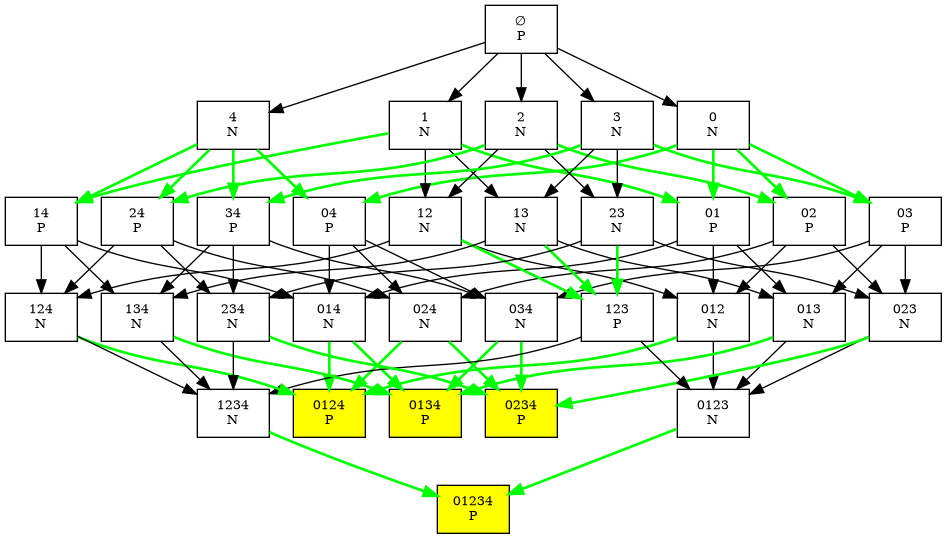
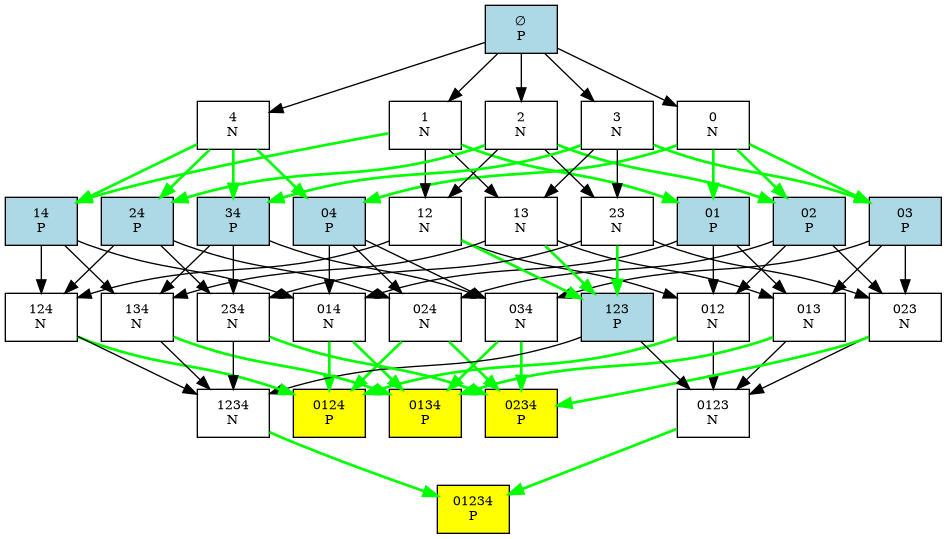
new file:   IMG_5940.jpeg 	modified:   __pycache__/sparse.n.p-position.cpython-312.pyc 	modified:   game_tree/decision_tree_01.dot 	modified:   game_tree/decision_tree_01.png 	modified:   game_tree/decision_tree_012.dot 	modified:   game_tree/decision_tree_012.png 	modified:   game_tree/decision_tre

diff --git a/sparse.n.p-position.py b/sparse.n.p-position.py
@@ -159,11 +159,19 @@ def export_dot(labels: dict[tuple[int, ...], str], universe: list[int], out_path
         for s in nodes:
             nid = id_map[s]
             lbl = label_text(s).replace('"', "'").replace("\n", "\\n")
-            # highlight terminal-like nodes (sparse-ruler or no legal moves)
+            # Decide visual style:
+            # - terminal-like nodes (sparse-ruler or no legal moves) -> yellow
+            # - other P-positions (normal P-positions) -> blue
             attrs = []
-            if is_sparse_ruler(s, U) or not legal_moves(U, s):
+            terminal_like = is_sparse_ruler(s, U) or not legal_moves(U, s)
+            if terminal_like:
                 attrs.append("style=filled")
                 attrs.append("fillcolor=yellow")
+            else:
+                # non-terminal P-positions -> blue fill
+                if labels.get(s) == "P":
+                    attrs.append("style=filled")
+                    attrs.append("fillcolor=lightblue")
             attrs_str = (", " + ", ".join(attrs)) if attrs else ""
             f.write(f"  {nid} [label=\"{lbl}\"{attrs_str}];\n")
         f.write("\n")

diff --git a/scripts/generate_dots.py b/scripts/generate_dots.py
@@ -11,10 +11,11 @@ mod = importlib.util.module_from_spec(spec)
 loader.exec_module(mod)
 
 # universes to generate (as strings matching your earlier format)
-universes = ["01", "012", "0123", "01234", "012345"]
+universes = ["01", "012", "0123", "01234", "012345", "0123456", "01234567"]
 
 for seq in universes:
     u = mod.parse_sequence(seq)
     labels = mod.classify_all_states(u)
     out = f"decision_tree_{''.join(str(x) for x in u)}.dot"
     mod.export_dot(labels, u, out)
+                                         
